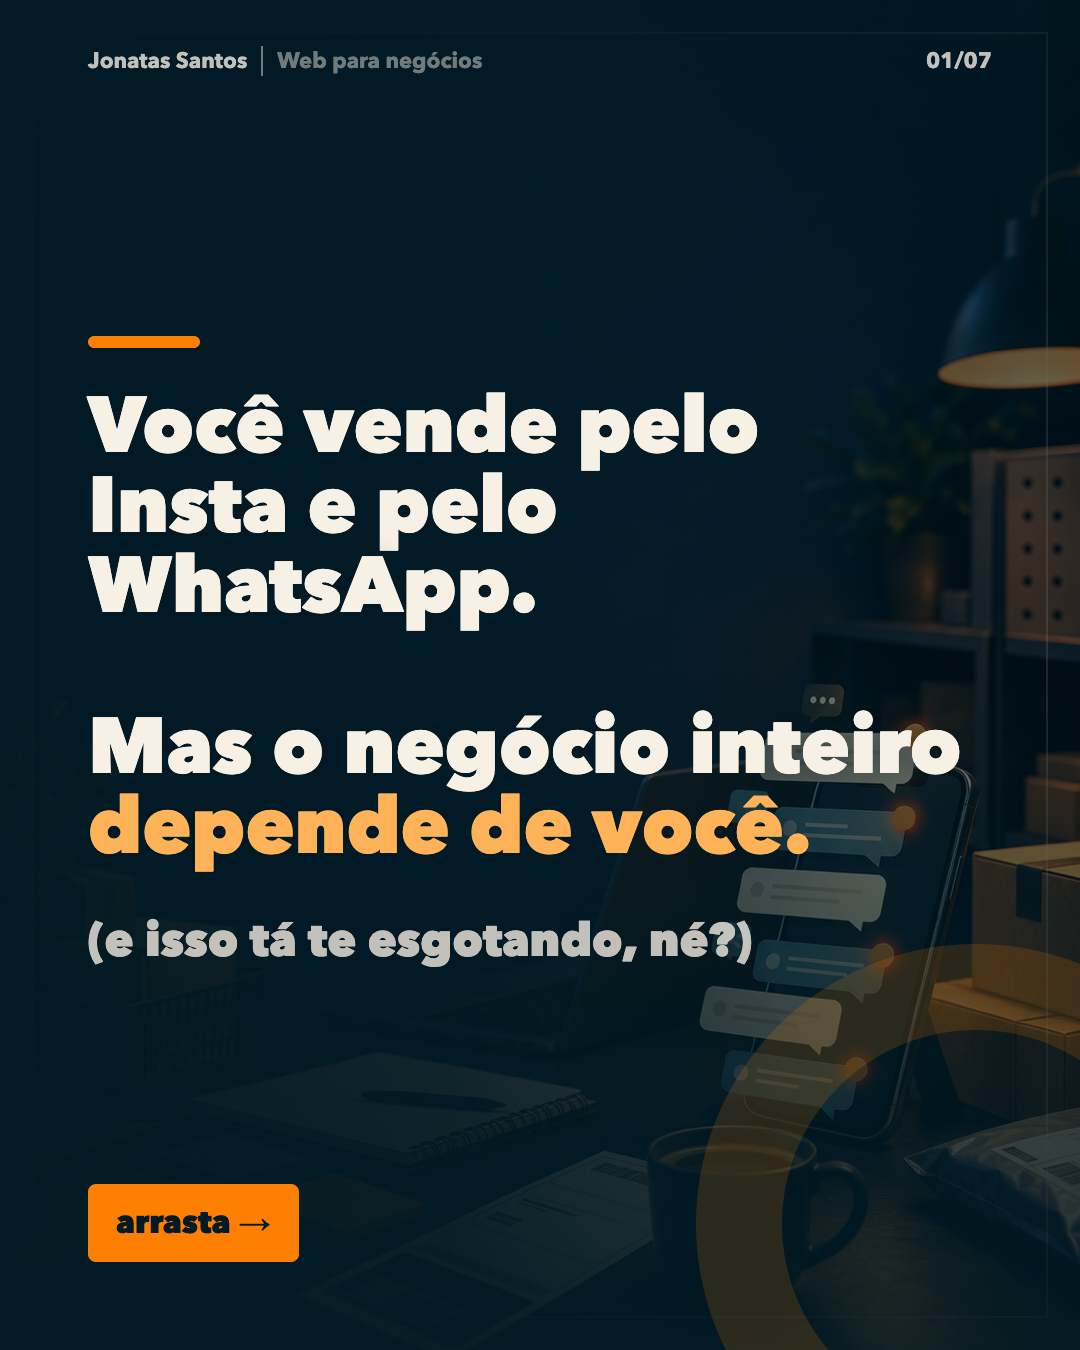
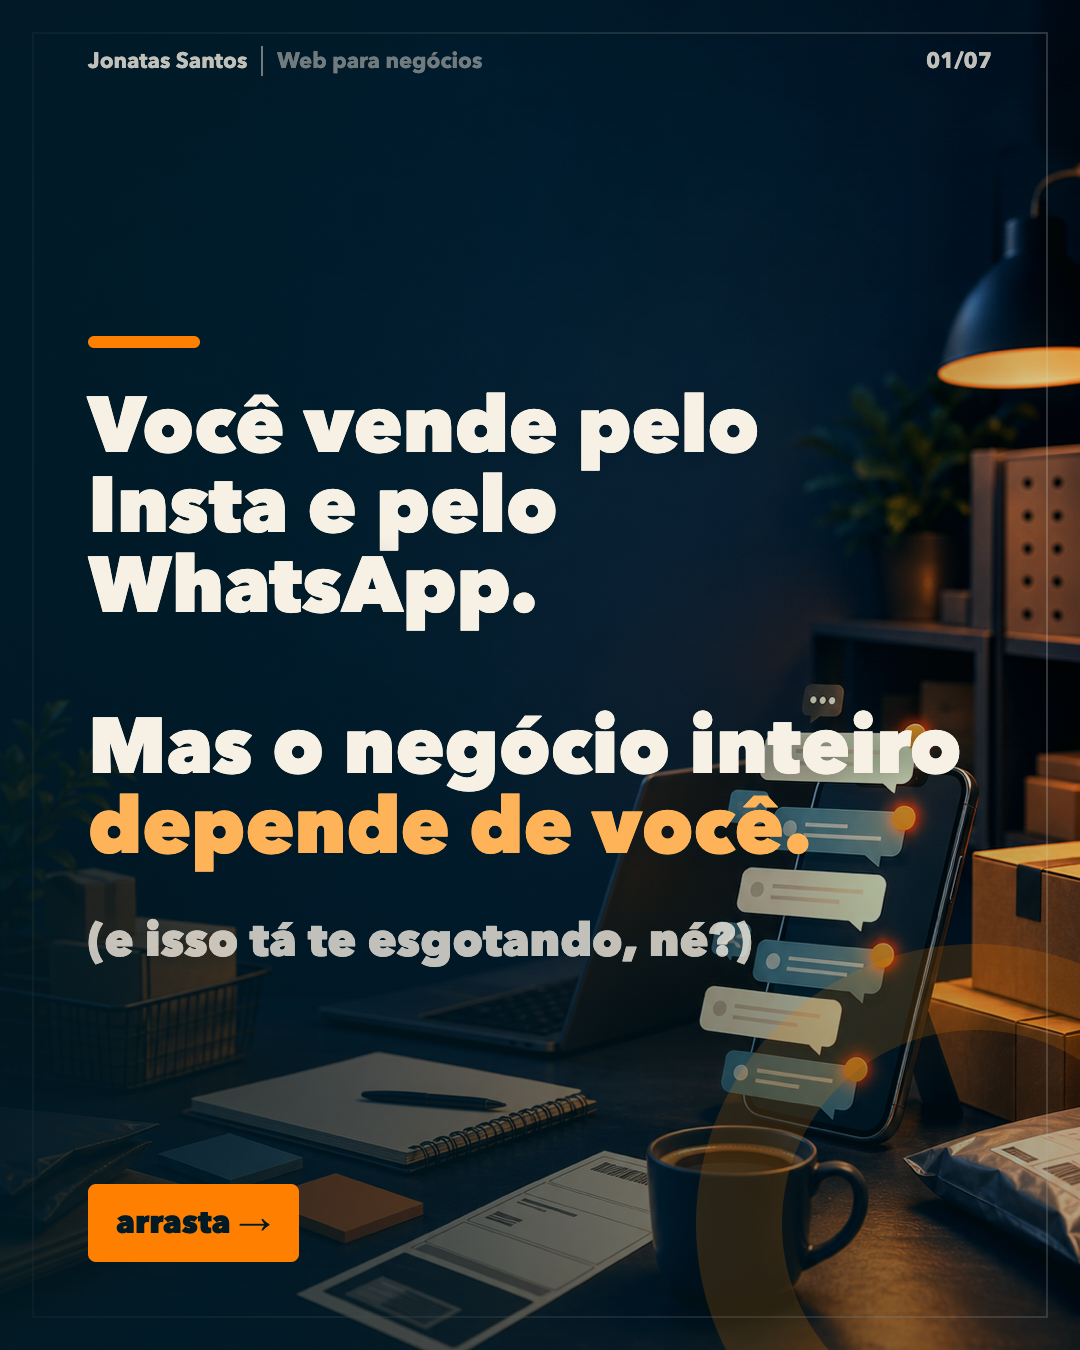
Add realistic Instagram carousel backgrounds

diff --git a/docs/instagram-carousel/posts-02-09/index.html b/docs/instagram-carousel/posts-02-09/index.html
@@ -132,6 +132,15 @@
           var(--cream);
       }
 
+      .layout-cover.has-photo-bg {
+        background: var(--navy-dark);
+        color: var(--cream);
+      }
+
+      .layout-cover.has-photo-bg::after {
+        border-color: rgb(247 240 228 / 22%);
+      }
+
       .photo-bg {
         position: absolute;
         inset: 0;
@@ -140,7 +149,7 @@
         height: 100%;
         object-fit: cover;
         object-position: center;
-        filter: saturate(1.02) contrast(1.05);
+        filter: saturate(1.06) contrast(1.04) brightness(1.12);
       }
 
       .photo-overlay {
@@ -148,8 +157,8 @@
         inset: 0;
         z-index: 1;
         background:
-          linear-gradient(90deg, rgb(1 26 36 / 96%) 0%, rgb(1 26 36 / 88%) 46%, rgb(1 26 36 / 50%) 100%),
-          linear-gradient(180deg, rgb(1 26 36 / 60%) 0%, rgb(1 26 36 / 18%) 45%, rgb(1 26 36 / 86%) 100%);
+          linear-gradient(90deg, rgb(1 26 36 / 82%) 0%, rgb(1 26 36 / 56%) 44%, rgb(1 26 36 / 6%) 100%),
+          linear-gradient(180deg, rgb(1 26 36 / 16%) 0%, rgb(1 26 36 / 0%) 46%, rgb(1 26 36 / 34%) 100%);
       }
 
       .brand,
@@ -184,6 +193,11 @@
       .theme-pain .slide-count,
       .theme-proof.layout-cover .brand,
       .theme-proof.layout-cover .slide-count {
+        color: rgb(247 240 228 / 80%);
+      }
+
+      .layout-cover.has-photo-bg .brand,
+      .layout-cover.has-photo-bg .slide-count {
         color: rgb(247 240 228 / 80%);
       }
 
@@ -238,10 +252,6 @@
 
       .layout-cover.has-photo-bg .headline {
         max-width: 700px;
-        margin-left: -24px;
-        padding: 18px 24px 24px;
-        background: linear-gradient(90deg, rgb(1 26 36 / 54%), rgb(1 26 36 / 22%) 68%, rgb(1 26 36 / 0%));
-        border-radius: 8px;
       }
 
       .headline-line {
@@ -271,6 +281,7 @@
 
       .layout-cover.has-photo-bg .headline-line {
         font-size: 68px;
+        text-shadow: 0 4px 28px rgb(1 26 36 / 58%);
       }
 
       .layout-lesson .headline-line {
@@ -330,12 +341,29 @@
         color: var(--rust);
       }
 
+      .layout-cover.has-photo-bg .tone-accent {
+        color: var(--peach);
+      }
+
+      .layout-cover.has-photo-bg .tone-blue {
+        color: #89c8ff;
+      }
+
+      .layout-cover.has-photo-bg .tone-green {
+        color: #8ee986;
+      }
+
+      .layout-cover.has-photo-bg .tone-rust {
+        color: var(--peach);
+      }
+
       .tone-muted {
         color: rgb(0 49 68 / 70%);
       }
 
       .theme-pain .tone-muted,
-      .theme-proof.layout-cover .tone-muted {
+      .theme-proof.layout-cover .tone-muted,
+      .layout-cover.has-photo-bg .tone-muted {
         color: rgb(247 240 228 / 70%);
       }
 
@@ -462,10 +490,7 @@
       }
 
       .layout-cover.has-photo-bg .visual {
-        opacity: 0.22;
-        filter: saturate(0.9) contrast(0.96);
-        transform: translate(36px, 54px) scale(0.94);
-        transform-origin: right bottom;
+        display: none;
       }
 
       .visual-link-bio {
@@ -1032,7 +1057,7 @@
       class="slide theme-pain accent-accent layout-cover size-regular has-photo-bg"
       id="post-02-slide-01"
     >
-      <img class="photo-bg" src="../vendas-insta-whatsapp/assets/background-instagram-whatsapp-1080x1350.png" alt="" />
+      <img class="photo-bg" src="assets/backgrounds/post-02-bg.png" alt="" />
       <div class="photo-overlay"></div>
       
     <div class="brand">
@@ -1248,11 +1273,11 @@
             
     <section
       aria-label="Post 3, slide 1"
-      class="slide theme-education accent-blue layout-cover size-regular "
+      class="slide theme-education accent-blue layout-cover size-regular has-photo-bg"
       id="post-03-slide-01"
     >
-      
-      
+      <img class="photo-bg" src="assets/backgrounds/post-03-bg.png" alt="" />
+      <div class="photo-overlay"></div>
       
     <div class="brand">
       <span>Jonatas Santos</span>
@@ -1438,11 +1463,11 @@
             
     <section
       aria-label="Post 4, slide 1"
-      class="slide theme-proof accent-accent layout-cover size-regular "
+      class="slide theme-proof accent-accent layout-cover size-regular has-photo-bg"
       id="post-04-slide-01"
     >
-      
-      
+      <img class="photo-bg" src="assets/backgrounds/post-04-bg.png" alt="" />
+      <div class="photo-overlay"></div>
       
     <div class="brand">
       <span>Jonatas Santos</span>
@@ -1664,7 +1689,7 @@
       class="slide theme-pain accent-accent layout-cover size-regular has-photo-bg"
       id="post-05-slide-01"
     >
-      <img class="photo-bg" src="../vendas-insta-whatsapp/assets/background-instagram-whatsapp-1080x1350.png" alt="" />
+      <img class="photo-bg" src="assets/backgrounds/post-05-bg.png" alt="" />
       <div class="photo-overlay"></div>
       
     <div class="brand">
@@ -1889,11 +1914,11 @@
             
     <section
       aria-label="Post 6, slide 1"
-      class="slide theme-education accent-blue layout-cover size-regular "
+      class="slide theme-education accent-blue layout-cover size-regular has-photo-bg"
       id="post-06-slide-01"
     >
-      
-      
+      <img class="photo-bg" src="assets/backgrounds/post-06-bg.png" alt="" />
+      <div class="photo-overlay"></div>
       
     <div class="brand">
       <span>Jonatas Santos</span>
@@ -2130,11 +2155,11 @@
             
     <section
       aria-label="Post 7, slide 1"
-      class="slide theme-education accent-green layout-cover size-regular "
+      class="slide theme-education accent-green layout-cover size-regular has-photo-bg"
       id="post-07-slide-01"
     >
-      
-      
+      <img class="photo-bg" src="assets/backgrounds/post-07-bg.png" alt="" />
+      <div class="photo-overlay"></div>
       
     <div class="brand">
       <span>Jonatas Santos</span>
@@ -2326,7 +2351,7 @@
       class="slide theme-pain accent-accent layout-cover size-regular has-photo-bg"
       id="post-09-slide-01"
     >
-      <img class="photo-bg" src="../vendas-insta-whatsapp/assets/background-instagram-whatsapp-1080x1350.png" alt="" />
+      <img class="photo-bg" src="assets/backgrounds/post-09-bg.png" alt="" />
       <div class="photo-overlay"></div>
       
     <div class="brand">

diff --git a/docs/instagram-carousel/vendas-insta-whatsapp/index.html b/docs/instagram-carousel/vendas-insta-whatsapp/index.html
@@ -174,8 +174,8 @@
         inset: 0;
         z-index: 1;
         background:
-          linear-gradient(90deg, rgb(1 26 36 / 94%) 0%, rgb(1 26 36 / 84%) 42%, rgb(1 26 36 / 52%) 72%, rgb(1 26 36 / 40%) 100%),
-          linear-gradient(180deg, rgb(1 26 36 / 62%) 0%, rgb(1 26 36 / 16%) 46%, rgb(1 26 36 / 84%) 100%);
+          linear-gradient(90deg, rgb(1 26 36 / 82%) 0%, rgb(1 26 36 / 56%) 44%, rgb(1 26 36 / 6%) 100%),
+          linear-gradient(180deg, rgb(1 26 36 / 16%) 0%, rgb(1 26 36 / 0%) 46%, rgb(1 26 36 / 34%) 100%);
         content: "";
       }
 
@@ -187,7 +187,7 @@
         height: 100%;
         object-fit: cover;
         object-position: center;
-        filter: saturate(1.05) contrast(1.04);
+        filter: saturate(1.06) contrast(1.04) brightness(1.12);
       }
 
       .cover .cover-content {

diff --git a/docs/instagram-carousel/posts-02-09/README.md b/docs/instagram-carousel/posts-02-09/README.md
@@ -9,6 +9,8 @@ Pacote com 7 carrosséis renderizados em PNG e 1 roteiro de Reel.
 - `out/panel-preview.png`: imagem rápida do painel.
 - `out/post-XX/slide-YY.png`: imagens prontas para postagem.
 - `out/post-08/cover.png`: capa 4:5 do Reel para visualizar na grade.
+- `assets/backgrounds/post-XX-bg.png`: backgrounds realistas finais, em 2160x2700.
+- `assets/backgrounds/raw/post-XX-bg.png`: imagens brutas geradas antes do crop/resample.
 - `captions/post-XX.txt`: legenda e hashtags de cada carrossel.
 - `reel/post-08-roteiro.md`: roteiro, legenda, hashtags e checklist do Reel.
 - `render-posts.mts`: fonte TypeScript para editar copy, cor e layout.
@@ -41,10 +43,10 @@ Ritmo recomendado: 2 a 3 publicações por semana.
 
 ## Regras de legibilidade aplicadas
 
-- Capas escuras usam uma coluna segura de texto, sem elementos principais por trás.
+- Capas usam background realista escuro, com overlay e coluna segura de texto.
 - Elementos decorativos ficam com baixa opacidade quando se aproximam da copy.
-- Chamadas principais recebem um scrim sutil, não um card pesado.
-- Slides claros mantêm ilustrações no canto inferior direito e texto em área limpa.
+- Chamadas principais ficam direto sobre a imagem, sem card pesado.
+- Slides internos mantêm ilustrações no canto inferior direito e texto em área limpa.
 
 ## Gerar novamente
 
